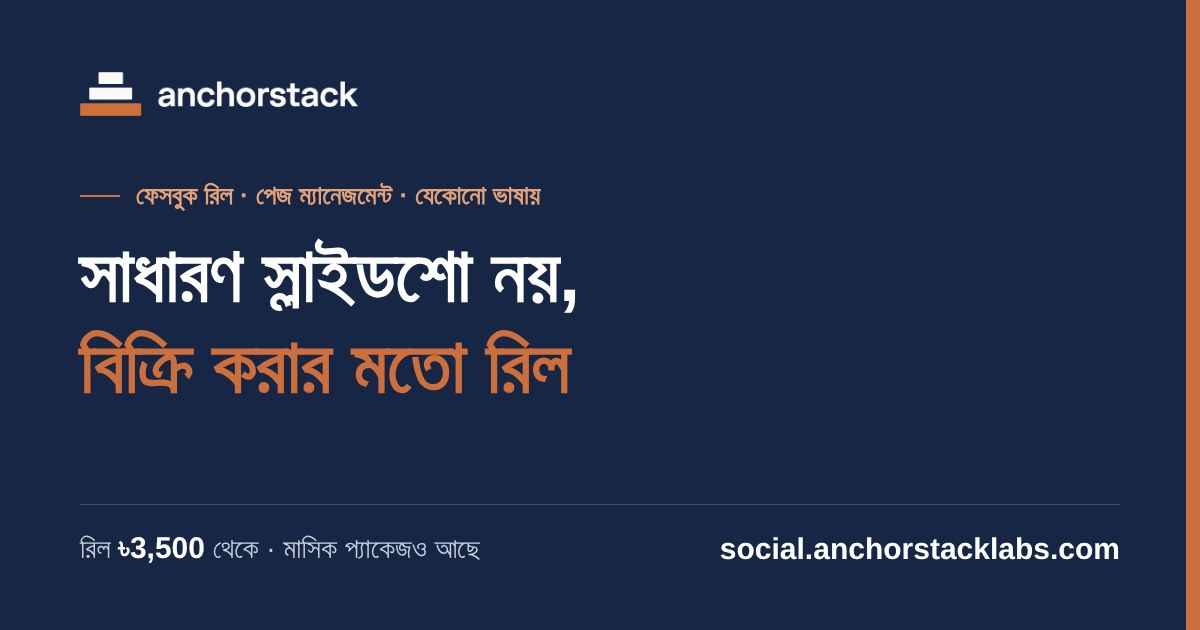
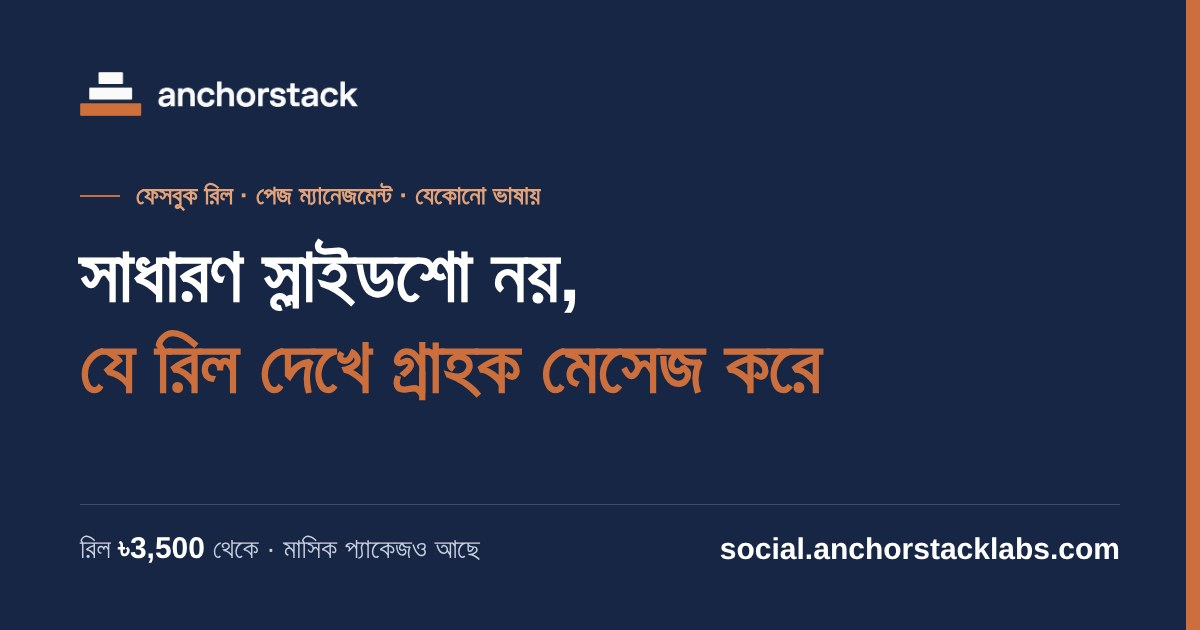
Headline: 'a reel that makes customers message you'
Claude-Session: https://claude.ai/code/session_011cFzcDHcrzH7SLvpNACTSe

Changed region(s): [[0.0617, 0.5127, 0.7092, 0.6333]]

diff --git a/index.html b/index.html
@@ -17,7 +17,7 @@
 <meta property="og:image" content="https://social.anchorstacklabs.com/og-image.jpg">
 <meta property="og:image:width" content="1200">
 <meta property="og:image:height" content="630">
-<meta property="og:image:alt" content="Anchorstack: সাধারণ স্লাইডশো নয়, বিক্রি করার মতো রিল">
+<meta property="og:image:alt" content="Anchorstack: সাধারণ স্লাইডশো নয়, যে রিল দেখে গ্রাহক মেসেজ করে">
 <meta name="twitter:card" content="summary_large_image">
 <meta name="twitter:image" content="https://social.anchorstacklabs.com/og-image.jpg">
 <link rel="preconnect" href="https://fonts.googleapis.com">
@@ -233,7 +233,7 @@
 <section class="hero">
   <div class="wrap">
     <div class="kicker" style="color:#e2a27c">ফেসবুক রিল · পেজ ম্যানেজমেন্ট · যেকোনো ভাষায়</div>
-    <h1>সাধারণ স্লাইডশো নয়, <em>বিক্রি করার মতো রিল</em></h1>
+    <h1>সাধারণ স্লাইডশো নয়,<br><em>যে রিল দেখে গ্রাহক মেসেজ করে</em></h1>
     <p>আপনি শুধু ছবি আর ব্যবসার তথ্য পাঠাবেন। স্ক্রিপ্ট লেখা, আপনার গ্রাহকের ভাষায় কণ্ঠ, মোশন আর সাউন্ড, বাকি সব কাজ আমাদের।</p>
     <div class="hero-actions">
       <a class="btn btn-copper" href="https://wa.me/8801346074720?text=%E0%A6%86%E0%A6%B8%E0%A6%B8%E0%A6%BE%E0%A6%B2%E0%A6%BE%E0%A6%AE%E0%A7%81%20%E0%A6%86%E0%A6%B2%E0%A6%BE%E0%A6%87%E0%A6%95%E0%A7%81%E0%A6%AE%2C%20%E0%A6%B0%E0%A6%BF%E0%A6%B2%20%E0%A6%A8%E0%A6%BF%E0%A6%AF%E0%A6%BC%E0%A7%87%20%E0%A6%95%E0%A6%A5%E0%A6%BE%20%E0%A6%AC%E0%A6%B2%E0%A6%A4%E0%A7%87%20%E0%A6%9A%E0%A6%BE%E0%A6%87">WhatsApp-এ কথা বলুন</a>

diff --git a/src/template.html b/src/template.html
@@ -17,7 +17,7 @@
 <meta property="og:image" content="https://social.anchorstacklabs.com/og-image.jpg">
 <meta property="og:image:width" content="1200">
 <meta property="og:image:height" content="630">
-<meta property="og:image:alt" content="Anchorstack: সাধারণ স্লাইডশো নয়, বিক্রি করার মতো রিল">
+<meta property="og:image:alt" content="Anchorstack: সাধারণ স্লাইডশো নয়, যে রিল দেখে গ্রাহক মেসেজ করে">
 <meta name="twitter:card" content="summary_large_image">
 <meta name="twitter:image" content="https://social.anchorstacklabs.com/og-image.jpg">
 <link rel="preconnect" href="https://fonts.googleapis.com">
@@ -233,7 +233,7 @@
 <section class="hero">
   <div class="wrap">
     <div class="kicker" style="color:#e2a27c">ফেসবুক রিল · পেজ ম্যানেজমেন্ট · যেকোনো ভাষায়</div>
-    <h1>সাধারণ স্লাইডশো নয়, <em>বিক্রি করার মতো রিল</em></h1>
+    <h1>সাধারণ স্লাইডশো নয়,<br><em>যে রিল দেখে গ্রাহক মেসেজ করে</em></h1>
     <p>আপনি শুধু ছবি আর ব্যবসার তথ্য পাঠাবেন। স্ক্রিপ্ট লেখা, আপনার গ্রাহকের ভাষায় কণ্ঠ, মোশন আর সাউন্ড, বাকি সব কাজ আমাদের।</p>
     <div class="hero-actions">
       <a class="btn btn-copper" href="{{wa:আসসালামু আলাইকুম, রিল নিয়ে কথা বলতে চাই}}">WhatsApp-এ কথা বলুন</a>

diff --git a/src/og-image.html b/src/og-image.html
@@ -15,6 +15,6 @@ h1 em{font-style:normal;color:#cc6f3d}
 </style></head><body><div class="bar"></div><div class="in">
 <img src="{{LOGO}}">
 <div class="k">ফেসবুক রিল · পেজ ম্যানেজমেন্ট · যেকোনো ভাষায়</div>
-<h1>সাধারণ স্লাইডশো নয়,<br><em>বিক্রি করার মতো রিল</em></h1>
+<h1>সাধারণ স্লাইডশো নয়,<br><em>যে রিল দেখে গ্রাহক মেসেজ করে</em></h1>
 <div class="b"><span>রিল <b>৳3,500</b> থেকে · মাসিক প্যাকেজও আছে</span><b>social.anchorstacklabs.com</b></div>
 </div></body></html>
